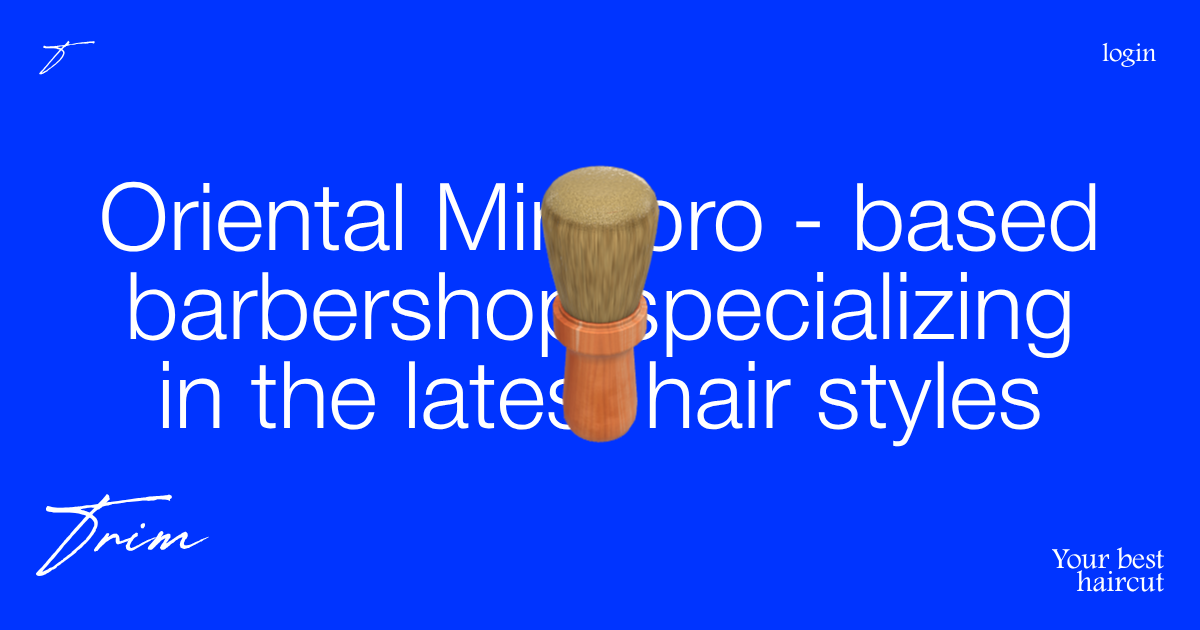
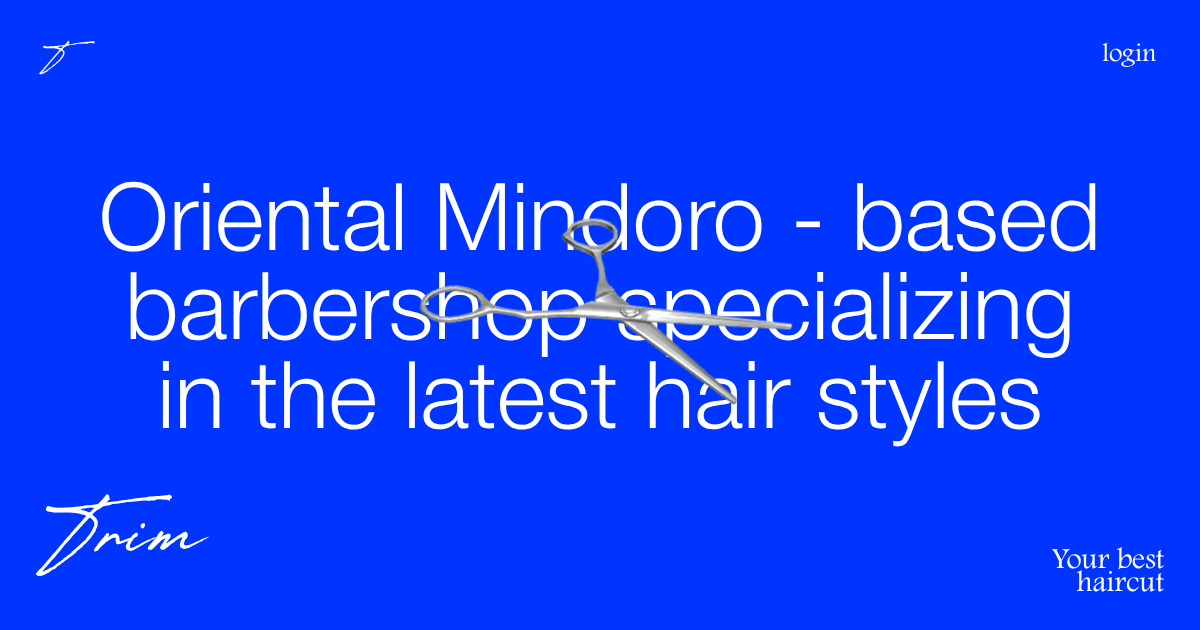
Use the scissors frame for the Open Graph image
Claude-Session: https://claude.ai/code/session_01DW1VGM4FyHYgdBKr9diVpT

Changed region(s): [[0.3392, 0.2413, 0.6783, 0.7238]]

diff --git a/index.html b/index.html
@@ -21,7 +21,7 @@
     <meta property="og:image:type" content="image/png" />
     <meta property="og:image:width" content="1200" />
     <meta property="og:image:height" content="630" />
-    <meta property="og:image:alt" content="Trim hero: a shaving brush over the line Oriental Mindoro based barbershop specializing in the latest hair styles" />
+    <meta property="og:image:alt" content="Trim hero: scissors over the line Oriental Mindoro based barbershop specializing in the latest hair styles" />
     <meta name="twitter:card" content="summary_large_image" />
     <meta name="twitter:title" content="Trim - Your Best Haircut" />
     <meta
